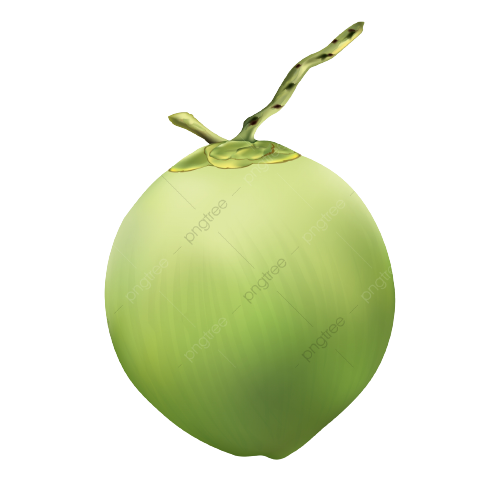
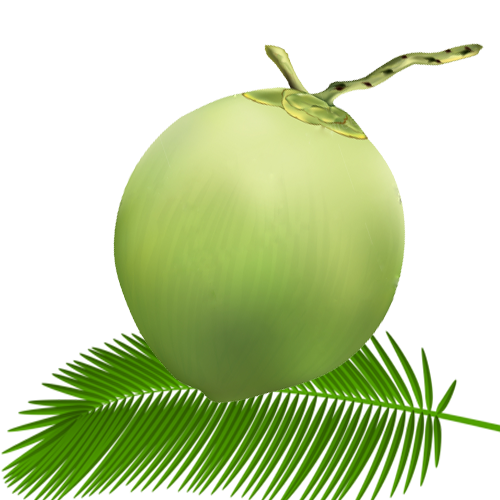
modify top header and top footer

diff --git a/src/components/Footer/FooterTop/FooterTop.js b/src/components/Footer/FooterTop/FooterTop.js
@@ -1,5 +1,6 @@
 import "./FooterTop.scss";
 import logo from "../../../images/logo.png";
+import traidua from "../../../images/traidua.png";
 import { FontAwesomeIcon } from "@fortawesome/react-fontawesome";
 import {
   faFacebookF,
@@ -14,15 +15,16 @@ export default function FooterTop() {
     <div className="footer-top">
       <div className="footer-top__left">
         <ul>
+          <img src={traidua} className="coconut" />
           <li>
             <Link to="/">
               <img src={logo} alt="" />
             </Link>
           </li>
-          <li style={{ textAlign: "center" }}>
+          {/* <li style={{ textAlign: "center" }}>
             Lorem ipsum dolor sit amet consectetur, adipisicing elit. Et
             nesciunt voluptatem beatae nemo.{" "}
-          </li>
+          </li> */}
           <li>
             <span>
               <a href="">
@@ -57,78 +59,35 @@ export default function FooterTop() {
                 />
               </a>
             </span>
-            <span>
-              <a href="">
-                <FontAwesomeIcon
-                  icon={faLinkedinIn}
-                  style={{ fontSize: "20px" }}
-                />
-              </a>
-            </span>
           </li>
         </ul>
       </div>
-      <div className="footer-top__right row">
-        <div className="col-xl-3 col-lg-3 col-md-3 col-sm-6 col-xs-6">
-          <ul>
-            <li>Services</li>
-            <li>
-              <a href="">My Account</a>
-            </li>
-            <li>
-              <a href="">Contact</a>
-            </li>
-            <li>
-              <a href="">Shopping Cart</a>
-            </li>
-            <li>
-              <a href="">Shop</a>
-            </li>
-            <li>
-              <a href="">Services Login</a>
-            </li>
-          </ul>
-        </div>
-        <div className="col-xl-3 col-lg-3 col-md-3 col-sm-6 col-xs-6">
-          <ul>
-            <li>Services</li>
-            <li>
-              <a href="">My Account</a>
-            </li>
-            <li>
-              <a href="">Contact</a>
-            </li>
-            <li>
-              <a href="">Shopping Cart</a>
-            </li>
-            <li>
-              <a href="">Shop</a>
-            </li>
-            <li>
-              <a href="">Services Login</a>
-            </li>
-          </ul>
-        </div>
-        <div className="col-xl-3 col-lg-3 col-md-3 col-sm-6 col-xs-6">
-          <ul>
-            <li>Services</li>
-            <li>
-              <a href="">My Account</a>
-            </li>
-            <li>
-              <a href="">Contact</a>
-            </li>
-            <li>
-              <a href="">Shopping Cart</a>
-            </li>
-            <li>
-              <a href="">Shop</a>
-            </li>
-            <li>
-              <a href="">Services Login</a>
-            </li>
-          </ul>
-        </div>
+      <div className="footer-top__right flex j-spaceBetween">
+        <ul>
+          <li>Contact Us</li>
+          <li>Phone: +0123456</li>
+          <li>Email: demo@gmail.com</li>
+          <li>Address: abcd, efgh, iklm, xyz</li>
+        </ul>
+
+        <ul>
+          <li>Feedback</li>
+          <li>
+            <a href="">My Account</a>
+          </li>
+          <li>
+            <a href="">Contact</a>
+          </li>
+          <li>
+            <a href="">Shopping Cart</a>
+          </li>
+          <li>
+            <a href="">Shop</a>
+          </li>
+          <li>
+            <a href="">Services Login</a>
+          </li>
+        </ul>
       </div>
     </div>
   );

diff --git a/src/components/Footer/FooterTop/FooterTop.scss b/src/components/Footer/FooterTop/FooterTop.scss
@@ -1,41 +1,64 @@
 @import "../../../grid";
-
+@import "../../../flex";
 .footer-top {
   display: flex;
   justify-content: space-between;
   align-items: center;
   width: 100%;
+  padding-bottom: 50px;
   @include xs() {
     flex-direction: column;
   }
   .footer-top__left {
-    width: 30%;
-    @include xs() {
-      width: 100%;
-    }
+    // width: 30%;
+    // @include xs() {
+    //   width: 100%;
+    // }
     ul {
       display: flex;
-      flex-direction: column;
       justify-content: center;
       align-items: center;
+      width: 200px;
+      height: 200px;
+      // background-image: url(../../../images/traidua.png);
+      // background-size:;
+      position: relative;
+      // background-color: white;
+      // border-radius: 50%;
+      // border: 1px solid #00a149;
+      img.coconut {
+        position: absolute;
+        width: 130%;
+        height: 130%;
+        z-index: 5;
+      }
       li {
-        &:first-child {
-          width: max-content;
-          img {
-            width: 150px;
-            height: 100px;
-          }
+        display: flex;
+        justify-content: center;
+        align-items: center;
+        position: absolute;
+        z-index: 10;
+        top: 50%;
+        left: 50%;
+        transform: translate(-45%, -50%);
+        img {
+          width: 150px;
+          height: 100px;
         }
+
         &:last-child {
-          display: flex;
-          justify-content: center;
-          align-items: center;
+          bottom: 0;
+          transform: translate(-50%, 120%);
+          // background-color: white;
+          width: max-content;
+          height: max-content;
+          padding: 10px;
           @include xs() {
             justify-content: center;
           }
         }
         width: 90%;
-        margin-bottom: 20px;
+        //margin-bottom: 20px;
         span {
           display: flex;
           justify-content: center;
@@ -43,12 +66,12 @@
           margin-right: 10px;
           width: 40px;
           height: 40px;
-          border: 1px solid #a19999;
+          border: 1px solid white;
           padding: 10px;
-          border-radius: 10px;
+          border-radius: 50%;
           transition: all 0.5s;
           a {
-            color: #a19999;
+            color: white;
           }
           &:hover {
             background-color: #00a149;
@@ -63,18 +86,17 @@
   }
   .footer-top__right {
     width: 60%;
-    justify-content: space-between;
-    @include md() {
-      width: 70%;
-    }
-    @include xs() {
-      width: 100%;
-    }
+    // justify-content: space-between;
+    // @include md() {
+    //   width: 70%;
+    // }
+    // @include xs() {
+    //   width: 100%;
+    // }
     ul {
-      //margin-left: 20%;
-
       li {
-        margin-left: 20%;
+        color: black;
+        font-size: 20px;
         &:first-child {
           font-size: 24px;
           font-weight: bold;

diff --git a/src/components/Header/HeaderTop/HeaderTop.js b/src/components/Header/HeaderTop/HeaderTop.js
@@ -81,16 +81,6 @@ function HeaderTop({
               ></FontAwesomeIcon>
             </a>
           </li>
-          <li>
-            <a href={linkIn}>
-              <FontAwesomeIcon
-                icon={faLinkedin}
-                color="white"
-                style={{ marginRight: "10px" }}
-                className="fa-icon"
-              ></FontAwesomeIcon>
-            </a>
-          </li>
         </ul>
       </div>
     </div>
